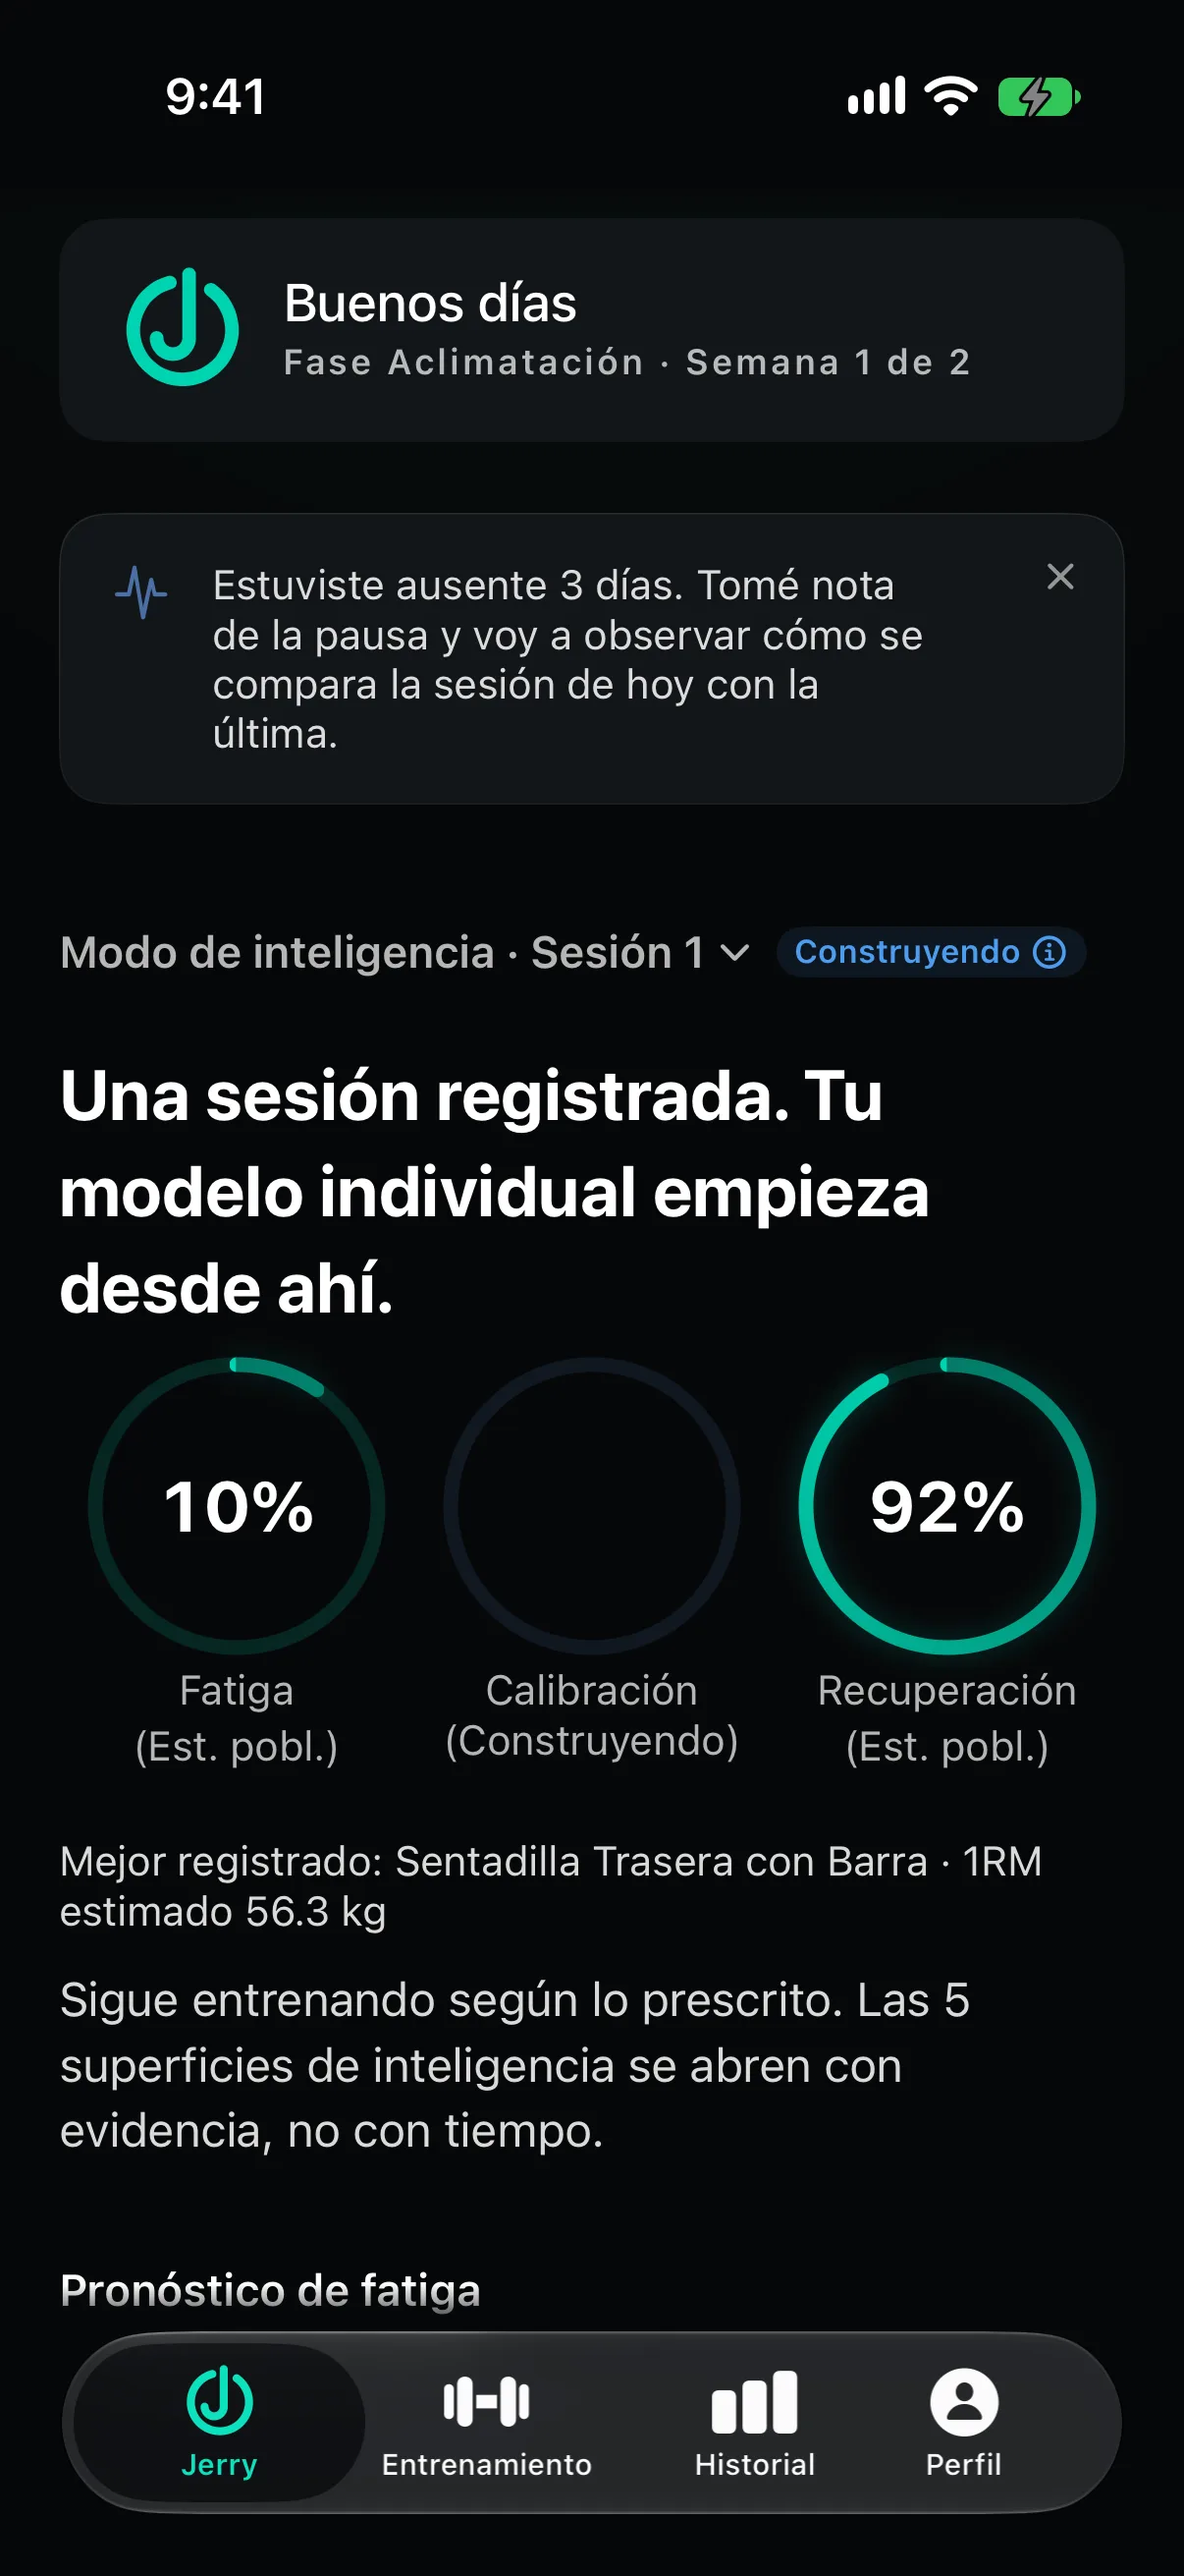
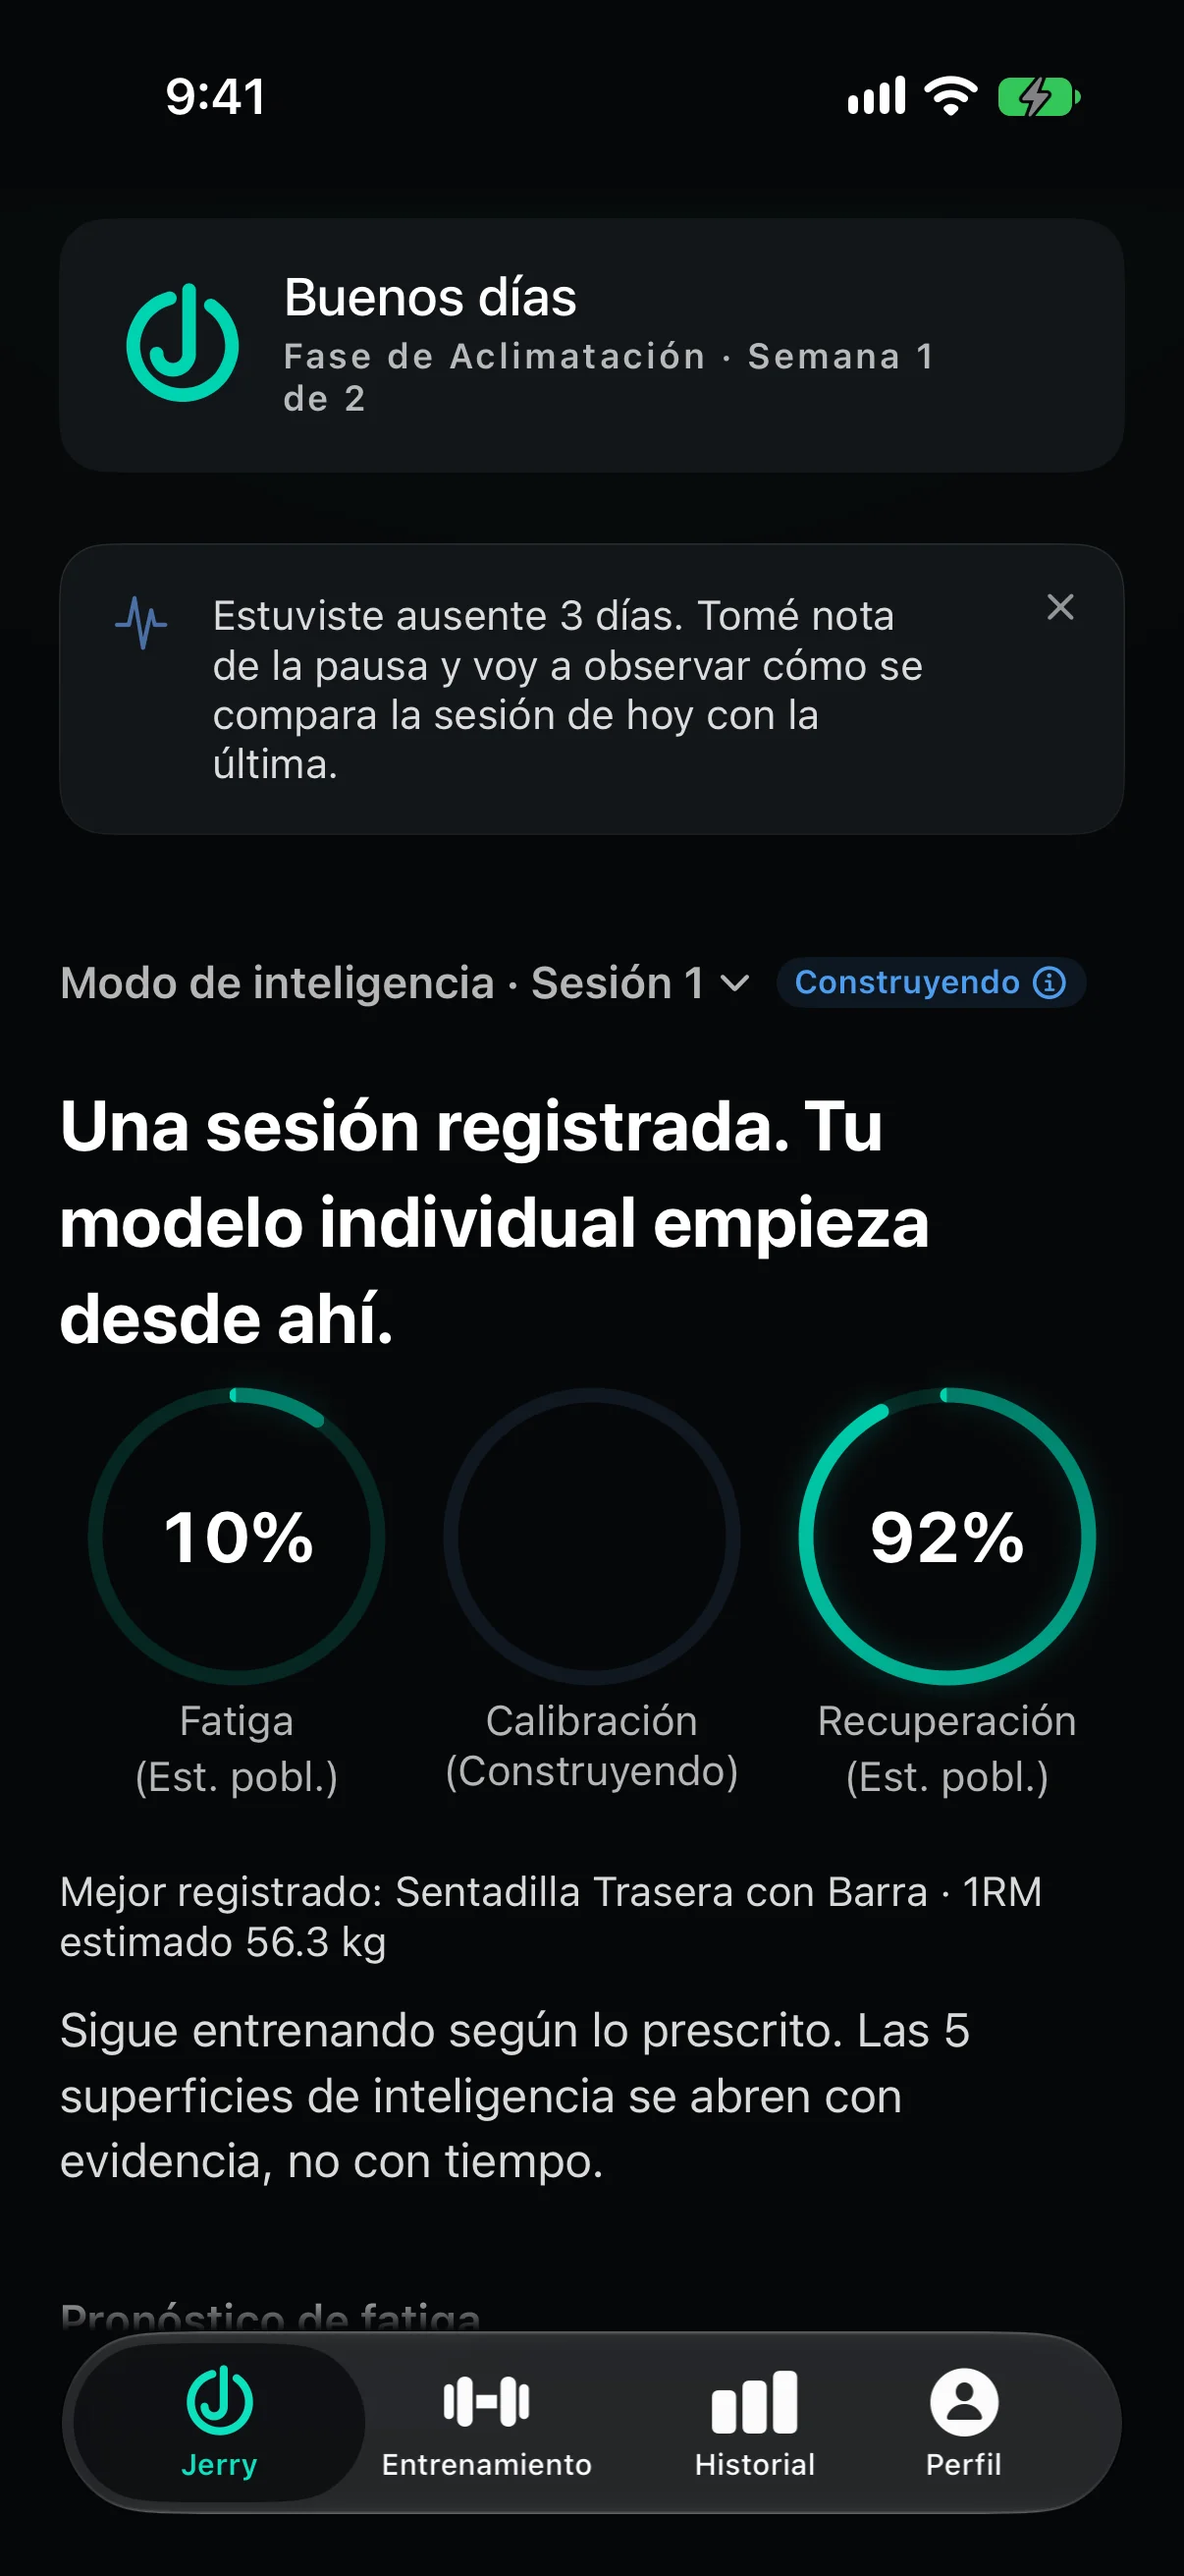
The Spanish day-one screen says "Fase de Aclimatación", and it is still the same athlete the English page shows
[verify-exempt: SEPARATE website repo, ZERO Swift. One screenshot and its cache stamp. The
Swift that produced this frame is in the other repo, uncommitted, and still owes its own
`scripts/verify.sh fast`. ./check.sh green: 13 gates, 20 pages.]

Re-shot from a build whose compiled es.lproj was verified to carry "Fase de" BEFORE any camera
time was spent, in one invocation with its English twin. It matches that twin exactly: same
phase and week, same absence banner, same Session 1 badge and Building state, same 10% and 92%
rings, same population sublabels, native 1206x2622. pair-gate green on all five pairs.

TWO SPANISH FRAMES STILL SAY "Fase Descarga", es-hundred and es-answered, and they are NOT
fixed here because the honest options were both bad and I took the less bad one. The re-shot
replacements have the grammar right and DIFFERENT RINGS from their English twins: 31/84/76
against 33/84/74, and 29/84/77 against 33/84/73. Installing them would trade a two-letter
grammar defect that one reader sees for two different athletes presented as one on a page whose
entire argument is that this coach does not overclaim. The CEO found the second defect himself
by putting the two pages side by side, so it is not hypothetical.

WHAT I MEASURED, because my earlier explanation was wrong and is now refuted:

  I said the pairs drift because the two languages were photographed in different camera runs,
[…]

diff --git a/es/index.html b/es/index.html
@@ -293,7 +293,7 @@ details.raw pre{font-family:var(--mono);font-size:.6875rem;color:var(--ink3);ove
       <div class="device">
         <div class="device__body"><div class="device__glass">
           <div class="device__screenwrap">
-            <img class="device__screen" src="/assets/shots/es-dashboard.webp?v=a3ce4874d0" width="1206" height="2622" loading="lazy" decoding="async"
+            <img class="device__screen" src="/assets/shots/es-dashboard.webp?v=2ed466cf3c" width="1206" height="2622" loading="lazy" decoding="async"
                  alt="El panel de OrderedStrength en español después de una sesión registrada, con la insignia de Modo de inteligencia en Construyendo, los anillos de fatiga y recuperación marcados Est. pobl., y una línea que dice que las cinco superficies de inteligencia se abren con evidencia, no con tiempo.">
         <span class="pin" style="left:93.5%;top:38.5%" data-pin="0">1</span>
         <span class="pin" style="left:6.5%;top:68%" data-pin="1">2</span>
@@ -429,7 +429,7 @@ field   sealedFor = 1755916800</pre>
         <div class="device">
           <div class="device__body"><div class="device__glass">
             <div class="device__screenwrap">
-              <img class="device__screen" src="/assets/shots/es-dashboard.webp?v=a3ce4874d0" width="1206" height="2622" loading="lazy" decoding="async"
+              <img class="device__screen" src="/assets/shots/es-dashboard.webp?v=2ed466cf3c" width="1206" height="2622" loading="lazy" decoding="async"
                    alt="El panel en español después de una sesión registrada. La fatiga marca 10 por ciento y la recuperación 92 por ciento, ambas etiquetadas Est. pobl., el anillo de Calibración no lleva número, y lo más fuerte registrado es una Sentadilla Trasera con Barra con 1RM estimado 56.3 kg.">
             </div>
             <span class="device__island" aria-hidden="true"></span><span class="device__sheen" aria-hidden="true"></span>
